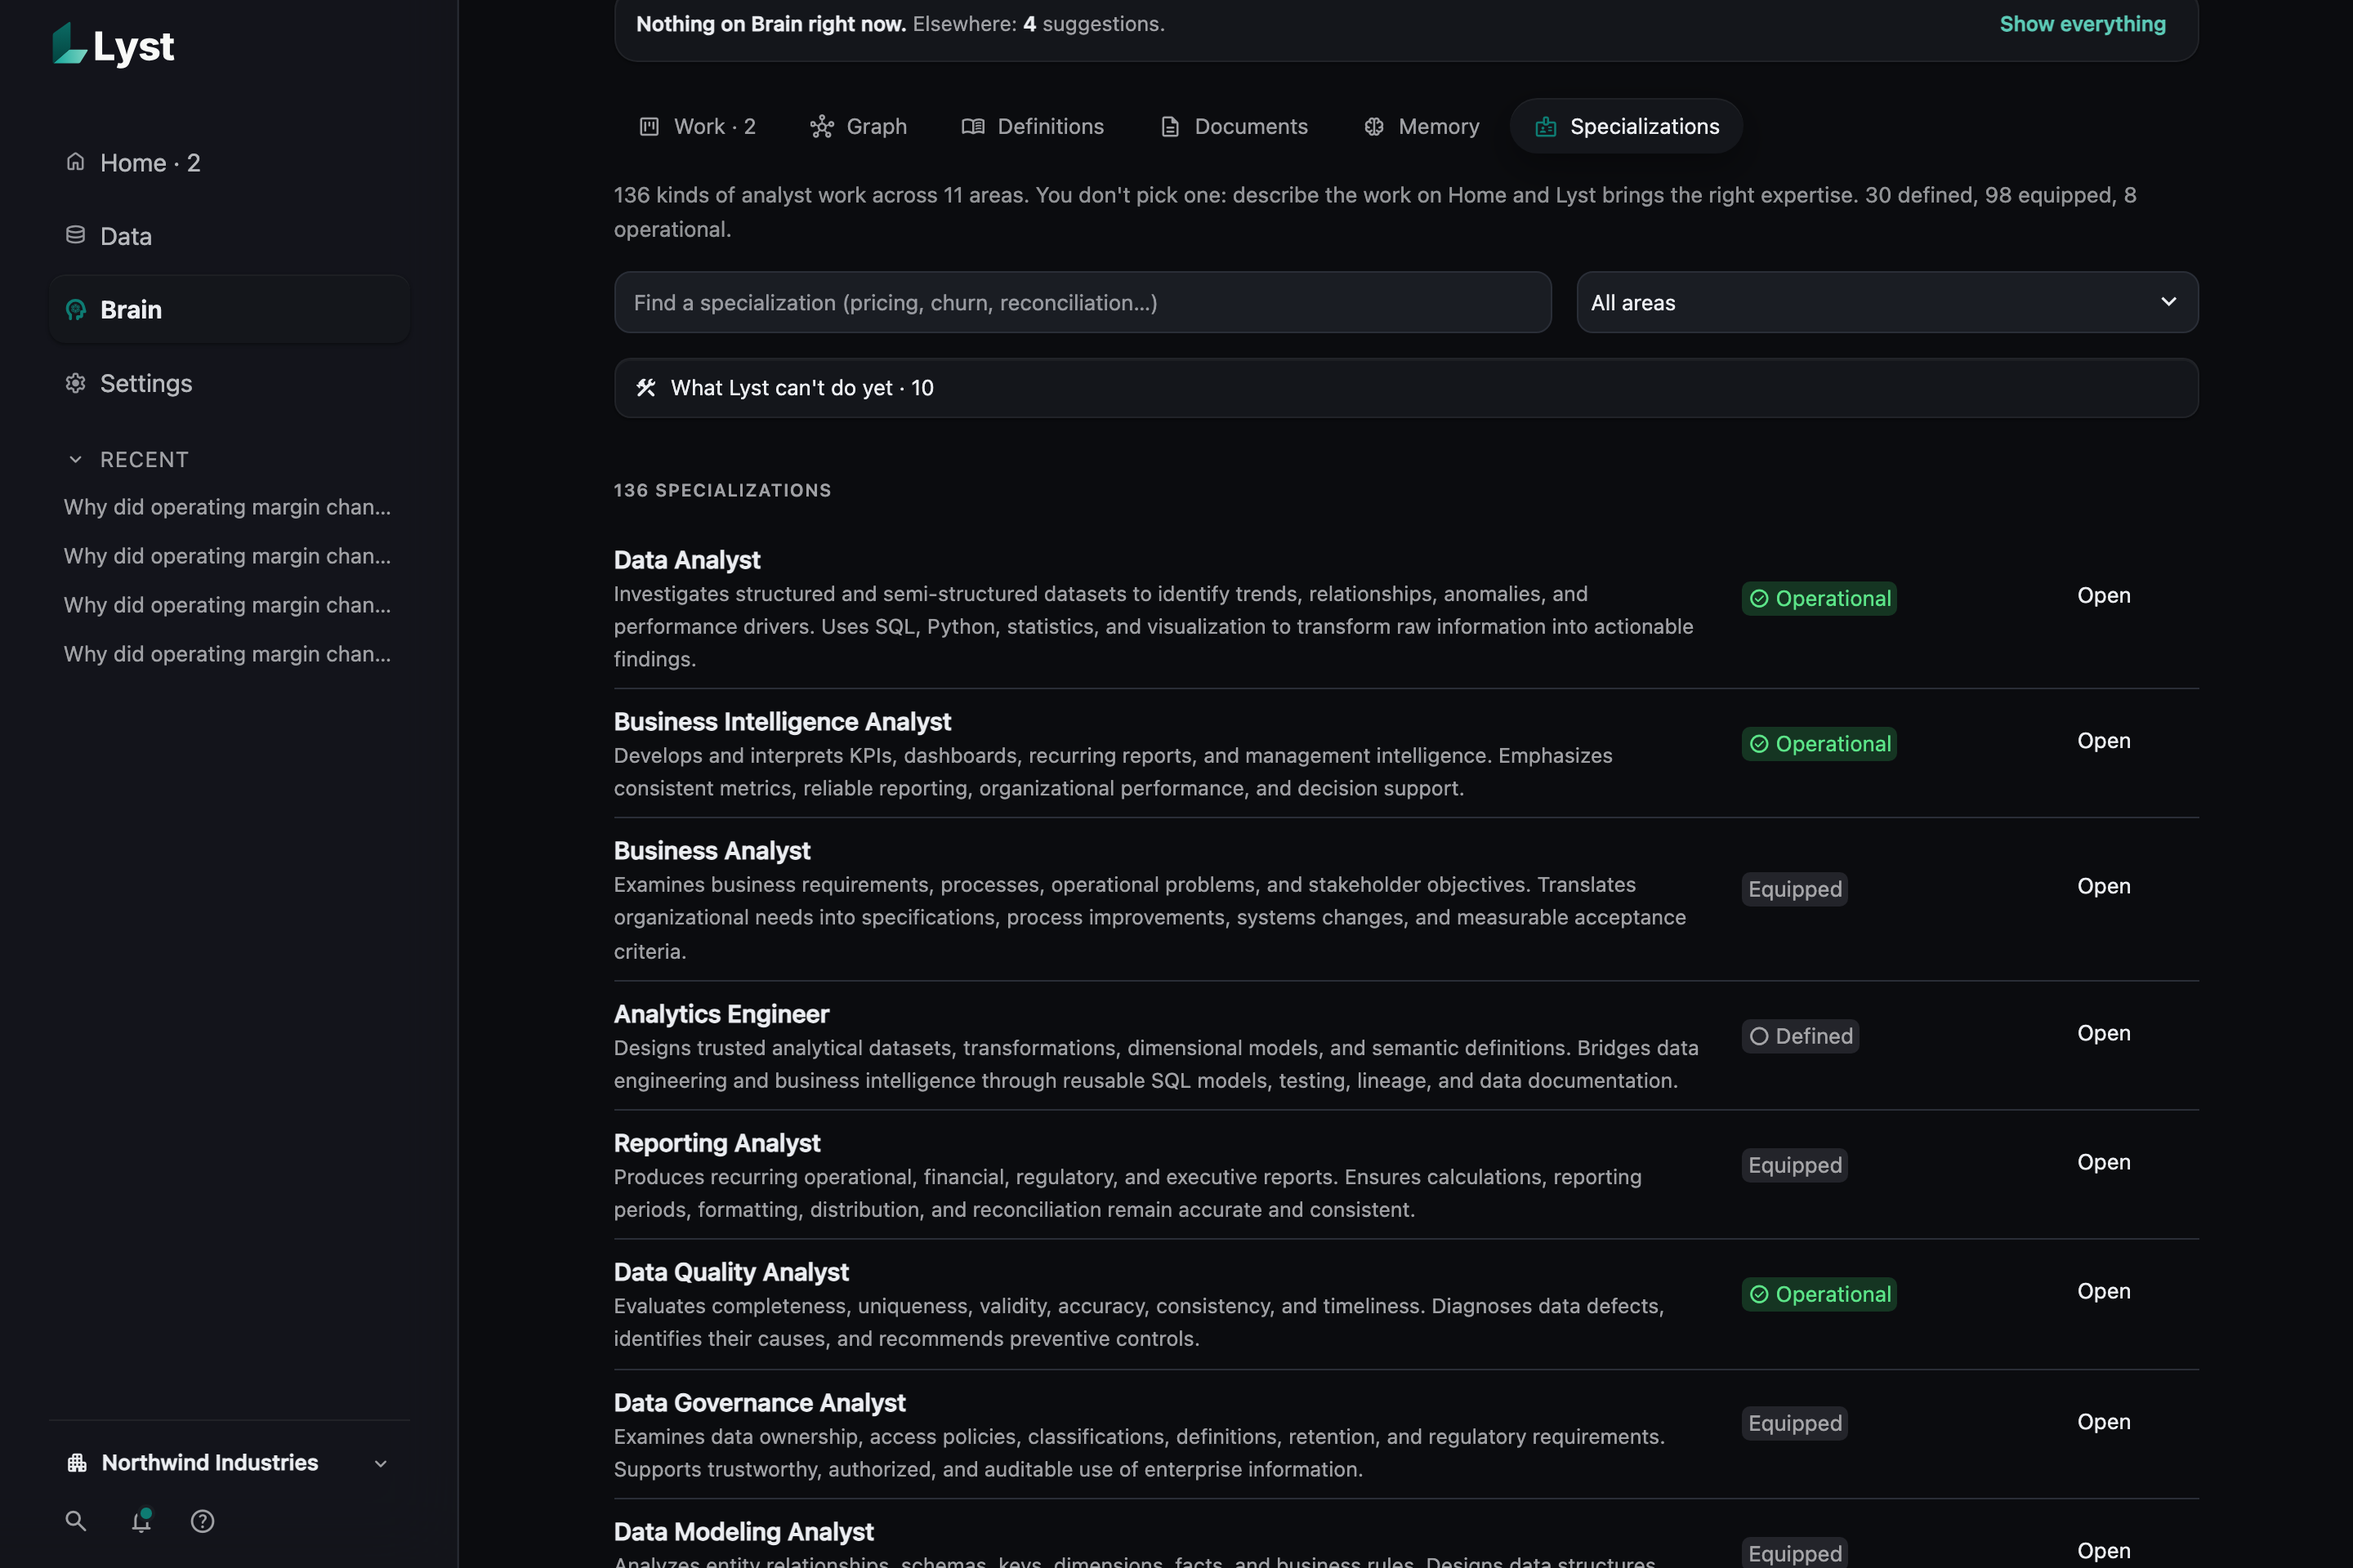
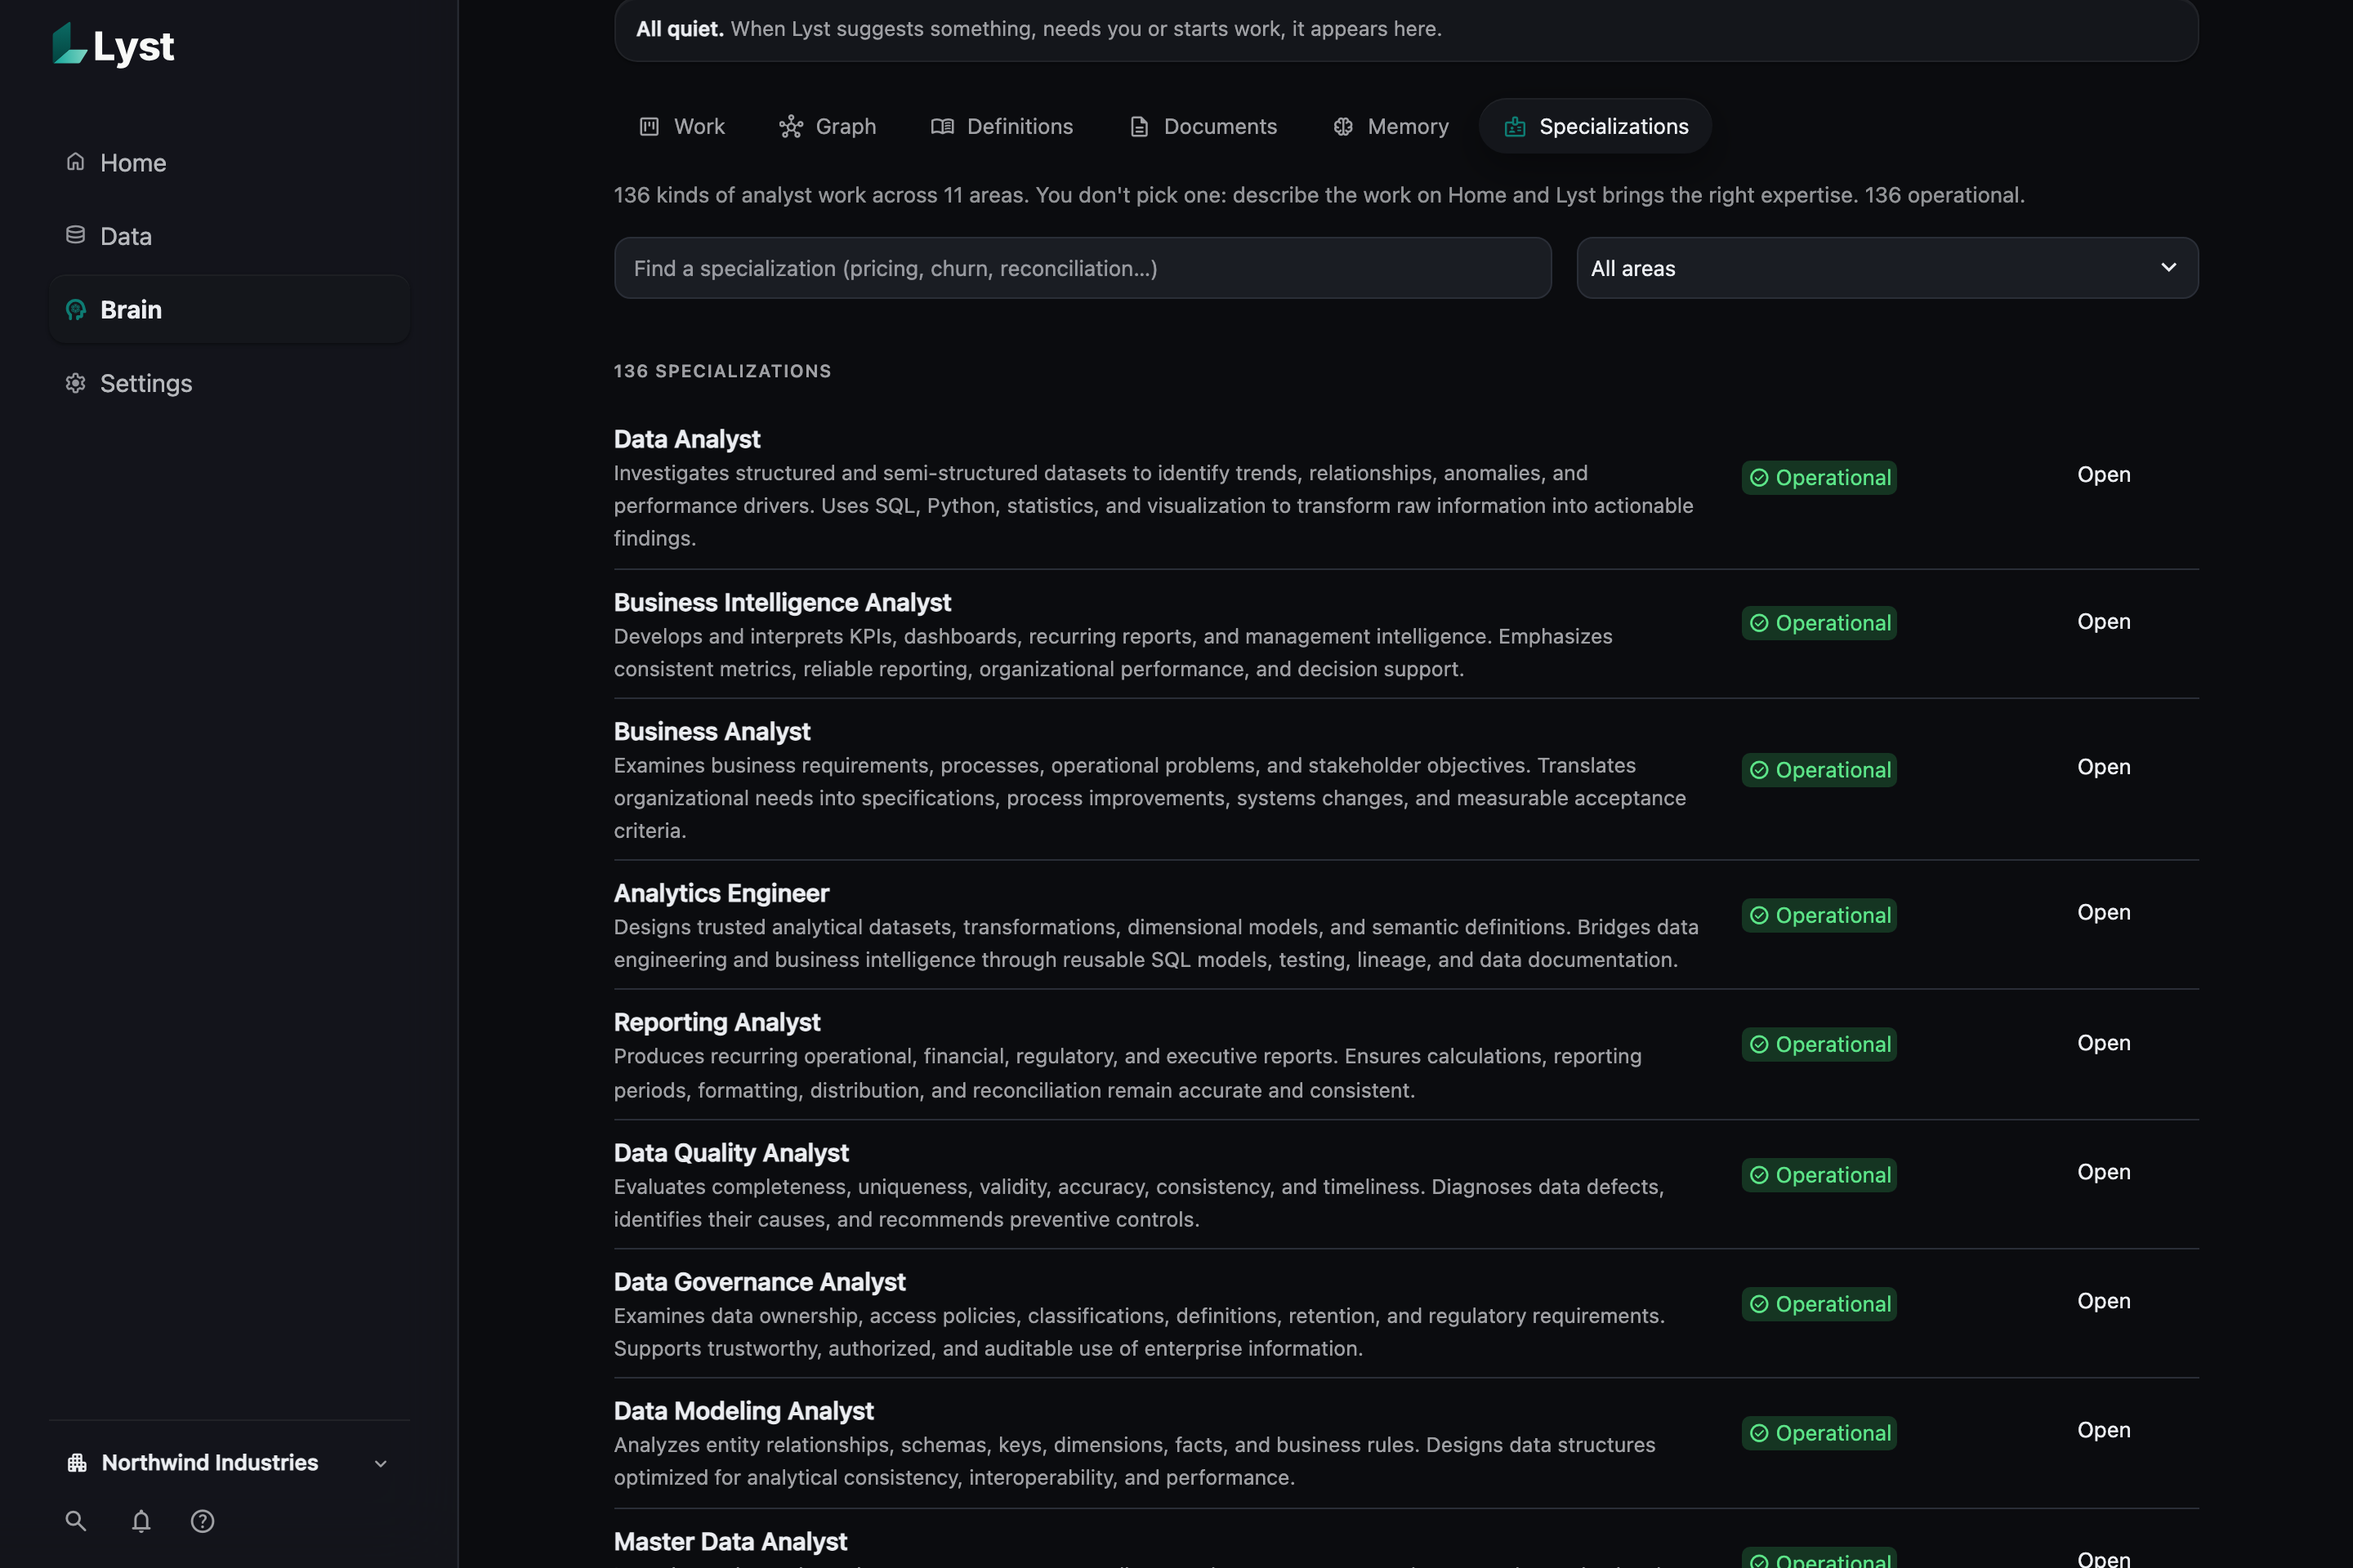
Website: the learning loop, governed memory, a 24-case eval gate and all 136 specializations Operational
- Evolve: answer verdicts (correct, incorrect, partly) with undo, a wrong answer never reused,
  recalled or cited, and the learning report.
- Enterprise: workflows held back when failing or disputed; admin-only revocation of approved
  memory; agent-observed memory expires after 365 days by default.
- Proof strip: 24 eval cases gate every change, learning included.
- Specializations: all 136 Operational, with the Specialists screenshot retaken and its callouts moved.

diff --git a/site/src/data/content.ts b/site/src/data/content.ts
@@ -117,8 +117,8 @@ export const capabilities: {
   {
     icon: 'Sprout',
     title: 'Evolve',
-    text: 'Learns new methods, with an owner’s approval.',
-    items: ['A map of everything Lyst knows', 'Memories flagged when their data changes', 'Search across data, definitions and saved work', 'Rules learned from repeated failures', 'Governed skills'],
+    text: 'Learns from use, measurably. A person’s verdict on an answer decides what Lyst reuses, and new methods need an owner’s approval.',
+    items: ['Answer verdicts: correct, incorrect or partly, with undo', 'A wrong answer is never reused, recalled or cited', 'A learning report counted from stored records', 'A map of everything Lyst knows', 'Memories flagged when their data changes', 'Search across data, definitions and saved work', 'Rules learned from repeated failures', 'Governed skills'],
     status: 'available',
   },
 ];
@@ -179,7 +179,7 @@ export const enterprise = {
     { icon: 'Library', title: 'Data contracts and lineage', text: 'Versioned contracts flag breaking upstream changes with every affected metric, dashboard and workflow, and any metric can explain where it comes from.', status: 'available' as Status },
     { icon: 'KeyRound', title: 'Role-aware access', text: 'Single sign-on, roles, row and column policies and an enforced data policy decide what each person, model and export can see.', status: 'available' as Status },
     { icon: 'History', title: 'Transparent task history', text: 'Every task has a frozen contract and leaves a receipt for each run. “How this ran” shows the steps, model calls, tokens, queries, time and cost.', status: 'available' as Status },
-    { icon: 'Repeat', title: 'Repeatable workflows', text: 'Verified analyses compile into versioned workflows that schedules can rerun.', status: 'available' as Status },
+    { icon: 'Repeat', title: 'Repeatable, governed learning', text: 'Verified analyses compile into versioned workflows that schedules can rerun; one that keeps failing, or gave an answer a person disputed, is held back with its reason. Only an admin takes back approved memory, and agent-observed memory expires after 365 days by default.', status: 'available' as Status },
     { icon: 'Building2', title: 'Deployment independence', text: 'Private by default: the interface listens only on your machine until you open it up. Scheduled, encrypted backups, each test-restored automatically, and whole workspaces that move in one sealed file.', status: 'available' as Status },
   ],
 };
@@ -232,7 +232,7 @@ export const footer = {
  */
 export const proof = [
   { value: '850+', label: 'automated tests, fault injection included' },
-  { value: '21', label: 'real questions gate every change' },
+  { value: '24', label: 'eval cases gate every change, learning included' },
   { value: '136', label: 'specialist profiles behind one Analyst' },
   { value: 'AGPL-3.0', label: 'open source, self-hosted' },
 ];

diff --git a/site/src/config/site.ts b/site/src/config/site.ts
@@ -71,7 +71,7 @@ export const stage =
         primaryCta: 'Learn more',
         status: 'In development',
         capabilityNote:
-          'Lyst is in active development. “Built” means implemented and tested in the private preview; nothing is generally released yet. Behind the one Analyst sit 136 specialist profiles, from FP&A to fraud detection. 8 are proven operational on tasks with known answers, 98 are equipped with the methods they need and 30 are defined so far.',
+          'Lyst is in active development. “Built” means implemented and tested in the private preview; nothing is generally released yet. Behind the one Analyst sit 136 specialist profiles, from FP&A to fraud detection. All 136 analyst specializations are Operational: a representative task for each passes on controlled sample data.',
         enterpriseNote:
           'Items marked Built are implemented and tested in the private preview. The rest are architectural design goals. None of this is a certification.',
         accessHeadline: 'Want to learn more?',
